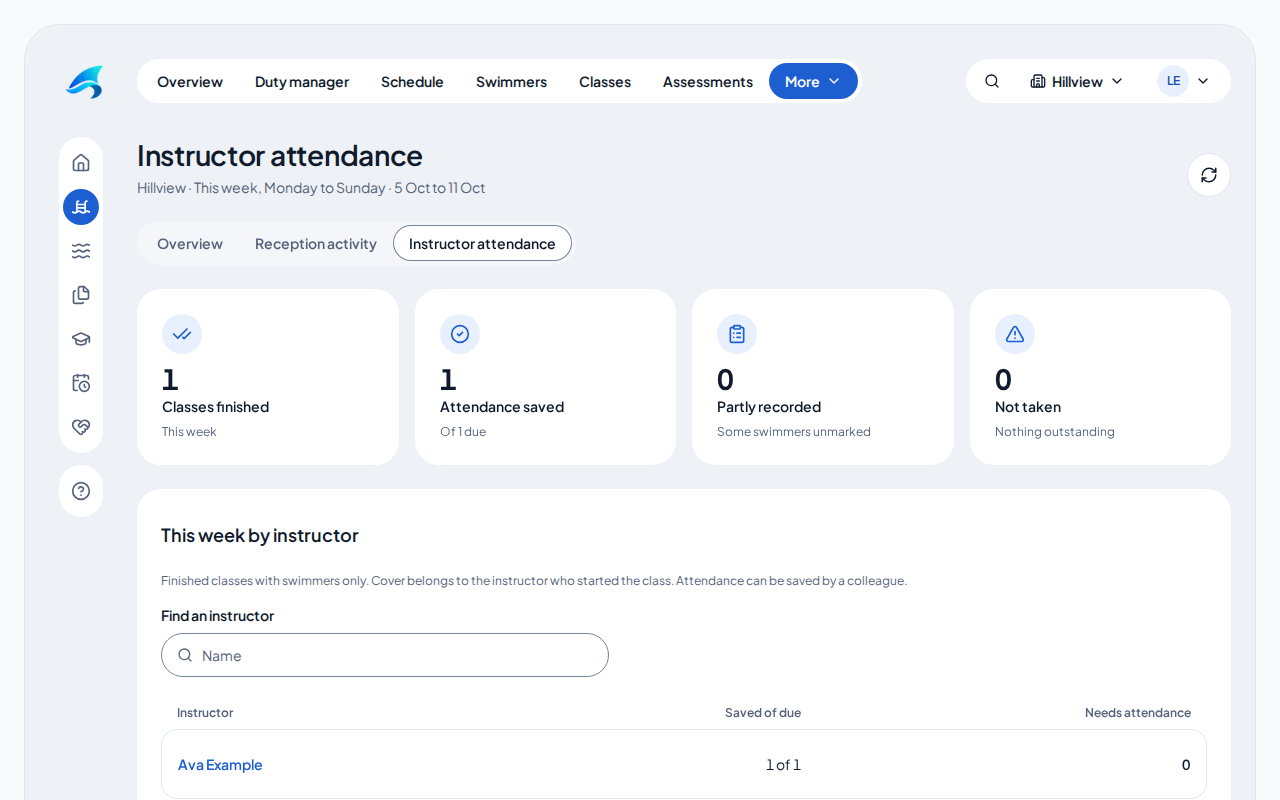
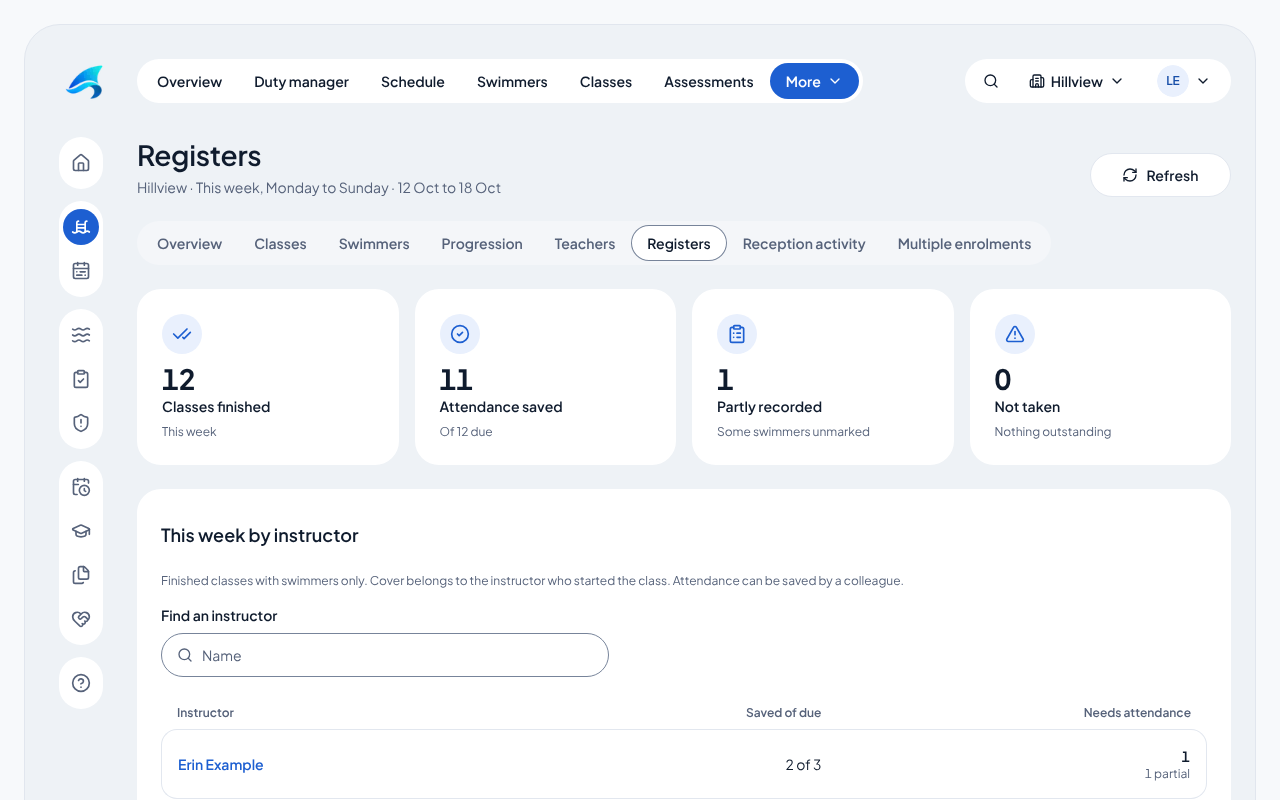
Analytics: help guide, docs, What's new 1.30.0 and layout polish
Claude-Session: https://claude.ai/code/session_01NU6qYLzZMVymJdXZW817Rw

diff --git a/src/lib/help/guides-management.ts b/src/lib/help/guides-management.ts
@@ -37,20 +37,23 @@ export const MANAGEMENT_GUIDES: HelpArticle[] = [
   },
   {
     slug: "analytics", title: "Understand the analytics figures", category: "operations", scopes: ["desk"],
-    summary: "Read weekly enrolment activity by person, instructor attendance, swimmers with multiple enrolments, capacity and cancellations for a site.",
-    keywords: ["reports", "dashboard", "statistics", "numbers", "spaces", "occupancy", "receptionists", "instructors", "missing attendance", "weekly", "multiple enrolments", "more than one class", "export", "csv", "member id"],
-    before: ["Your account needs access to Analytics."],
+    summary: "Read how the swim school is doing: swimmers, places, waiting lists, who left and why, progress through the levels and how each teacher's lessons go, then open a class, swimmer or teacher for the detail.",
+    keywords: ["reports", "dashboard", "statistics", "numbers", "spaces", "occupancy", "fill", "waiting list", "retention", "leavers", "drop-off", "why they left", "progression", "levels", "teachers", "instructors", "performance", "late starts", "registers", "receptionists", "multiple enrolments", "export", "csv", "member id"],
+    before: ["Analytics is for swim school managers: your role needs the top Swim school level."],
     steps: [
-      { title: "Choose the working site", text: "Open Analytics and check the site in the tools bar at the top right. The figures describe that site." },
-      { title: "Compare swimmers and places", text: "Total swimmers counts distinct currently enrolled swimmers. The level breakdown counts enrolled places against class capacity. A swimmer in two classes can occupy two places while counting as one swimmer." },
-      { title: "Read this week’s activity", text: "The enrolment and unenrolment figures cover the current Monday–Sunday week in Ireland, including today so far. Moves, completions and waitlist withdrawals are excluded. Future days show a dash." },
-      { title: "Compare reception activity", text: "Choose Reception activity to see enrolments and unenrolments by the staff member who recorded them. Search by name and open Daily breakdown for their Monday–Sunday totals. Automatic scheduled withdrawals appear separately when applied." },
-      { title: "Check instructor attendance", text: "Choose Instructor attendance. Saved of due compares fully marked attendance with finished classes that have swimmers. Select an instructor, then Needs attendance to find missing or partial registers. Upcoming, cancelled and empty classes are excluded from missed attendance. Saved by shows when a colleague helped." },
-      { title: "Find swimmers with more than one enrolment", text: "Choose Multiple enrolments to list swimmers enrolled more than once, waitlist places included. This site covers the working site; All sites counts places across every site you work at. Search by name or member ID, then choose Export CSV to save the list with each swimmer’s member ID." },
-      { title: "Check cancellations", text: "The cancellation total covers sessions dated in this month. Open Cancelled classes for the outstanding billing queue, which can include older dates. Use Refresh to reload the figures." },
+      { title: "Choose the period and the sites", text: "Open Analytics. Under the page tabs choose 4 weeks, 13 weeks, 6 months or 12 months, and This site or All my sites. Every page keeps your choice, and figures with an arrow compare with the same length of time just before." },
+      { title: "Start with the Overview", text: "The top figures show swimmers now, places filled, the waiting list, who joined and left, how many stayed and attendance. Needs attention lists what is worth acting on this week: swimmers who may leave, full classes with a waiting list, quiet classes, swimmers stuck at a level and lessons nobody started. Open any of them to see who and where." },
+      { title: "Find where the timetable is full", text: "Choose Classes. The grid shades each day and start time by how full it is, with a gold edge where someone is waiting. Each level shows its free places and waiting list. Open a class for its swimmers, their last lessons, its waiting list and every lesson with who taught it." },
+      { title: "See who left and why", text: "Choose Swimmers for joiners and leavers month by month, why they left, how long they stayed, the level they left from, swimmers who may leave and everyone leaving soon. Moving class or site is not leaving, and coming back within two weeks does not count as leaving." },
+      { title: "Check progress through the levels", text: "Choose Progression for how many swimmers pass each level, how many weeks it takes, the skill fewest swimmers have and who has been at one level for more than six months. Assessments shows how many assessed swimmers went on to take a place." },
+      { title: "Look at each teacher", text: "Choose Teachers. A lesson belongs to whoever started it on the pool deck, so cover counts for the person who taught. Sort by lessons, attendance, starting on time, leavers or passes; figures in gold are more than 10 points worse than the school. Open a teacher to compare them with the school, see their classes, late or missed starts and the swimmers who left after their lessons." },
+      { title: "Use the older reports", text: "Registers shows which finished lessons still have swimmers unmarked. Reception activity counts enrolments and unenrolments by the person who recorded them. Multiple enrolments lists swimmers in more than one class and can be exported." },
     ],
-    result: "You can distinguish customer totals, occupied places and recent changes without treating them as the same measure.",
-    troubleshooting: [{ question: "Why doesn’t the cancellation total match the billing queue?", answer: "They answer different questions. Analytics counts sessions in the current month; the queue holds every cancellation still awaiting billing follow-up." }],
+    result: "You can see what is going well and what needs a decision, and drill from the whole swim school down to a class, a swimmer or a teacher.",
+    troubleshooting: [
+      { question: "Why do some leavers say Not recorded?", answer: "Unenrol asks why a swimmer is leaving from 16 October 2026. Swimmers unenrolled before then have no reason." },
+      { question: "Why do a teacher's figures look unusual?", answer: "Small numbers move a lot. A teacher with only a few lessons in the period can look very good or very bad; choose a longer period before acting on it." },
+    ],
     related: ["find-class", "billing-follow-up", "switch-sites"], action: "analytics",
   },
   {

diff --git a/src/lib/help/screenshots.ts b/src/lib/help/screenshots.ts
@@ -109,9 +109,9 @@ export const GUIDE_SCREENSHOTS: Record<string, Placement[]> = {
   "cancel-class-session": [{ image: "cancel-session", step: "Record the reason", caption: "This confirmation cancels one session and records why it cannot run.", alt: "Cancel this session? dialog with the class, date and time, a fictional reason for cancellation, Keep session and Confirm cancellation." }],
   "billing-follow-up": [{ image: "billing", step: "Record the handoff", caption: "After contacting billing, save a handoff note against the affected swimmers.", alt: "Cancelled Otters session awaiting billing, with the reason, the affected fictional swimmers, a billing handoff note and Mark billing notified." }],
   "analytics": [
-    { image: "analytics", step: "Compare swimmers and places", caption: "Current swimmer totals sit alongside this Monday–Sunday week’s recorded activity.", alt: "Analytics page in the frame with fictional swimmer totals, this week’s enrolment activity, places by level and cancellations." },
-    { image: "analytics-reception", step: "Compare reception activity", caption: "Reception activity groups recorded actions by person, with a daily breakdown for each.", alt: "Reception activity report with fictional staff, weekly enrolment and unenrolment totals, and daily breakdown controls." },
-    { image: "analytics-instructors", step: "Check instructor attendance", caption: "Find missing or partial attendance, then inspect the class and the staff who saved marks.", alt: "Instructor attendance report with fictional instructors, saved and missing registers, and dated class details." },
+    { image: "analytics", step: "Start with the Overview", caption: "The Overview shows the swim school at a glance for the period you choose, with what needs attention beside the weekly trend.", alt: "Analytics Overview with fictional figures for swimmers, places filled, waiting list, joiners and leavers, a weekly trend and a Needs attention list." },
+    { image: "analytics-reception", step: "Use the older reports", caption: "Reception activity groups recorded actions by person, with a daily breakdown for each.", alt: "Reception activity report with fictional staff, weekly enrolment and unenrolment totals, and daily breakdown controls." },
+    { image: "analytics-instructors", step: "Use the older reports", caption: "Registers finds missing or partial attendance, then shows the class and the staff who saved marks.", alt: "Registers report with fictional instructors, saved and missing registers, and dated class details." },
   ],
   "manage-curriculum": [
     { image: "programme", step: "Open or add a programme", caption: "A programme contains the ordered levels used at every site.", alt: "Add a programme dialog with a fictional name, a description and an optional image." },

diff --git a/docs/analytics.md b/docs/analytics.md
@@ -1,10 +1,61 @@
 # Analytics
 
-`/analytics` is a read-only shadcn dashboard under Monitoring. It follows the
-site selected in the sidebar, with no separate page selector or URL scope override.
-Administrators inherit this
-screen automatically. Other roles need an explicit `analytics` screen grant.
-Instructor remains a separate workspace. Schedule remains the default desk home.
+`/analytics` is the swim school's reports, for Swim school **Manage** only (the
+`analytics` screen, `courses.manage`). Code: `src/modules/activities/features/analytics`
+(`server/insight-queries.ts` reads, `server/swimmers.ts`, `server/teaching.ts` and
+`server/insights.ts` compute, `components/insights/` draws). Styles are in
+`src/app/(activities)/analytics/analytics.css`.
+
+## Reports (October 2026)
+
+Every report takes `?range=4w|13w|26w|52w` (default 13 weeks, starting on a Monday)
+and `?sites=all` (every site the person works at; default the working site), and
+compares with the same length of time just before.
+
+- **Overview** (`/analytics`): swimmers now, places filled, waiting list, joined,
+  left, stayed, attendance and level passes; a weekly trend with joiners and
+  leavers; Needs attention; why swimmers left; ages.
+- **Classes** (`/analytics/classes`, `/analytics/classes/[id]`): a day × start-hour
+  heat map of places filled, each level, every class; a class shows its swimmers'
+  attendance, last lessons and skills, its waiting list, leavers and every lesson
+  with who started it.
+- **Swimmers** (`/analytics/swimmers`): month-by-month joiners and leavers and
+  drop-off, reasons, tenure, level left from, ages, swimmers who may leave, leaving
+  soon and every leaver.
+- **Progression** (`/analytics/progression`): per level the swimmers, passes, the
+  median weeks to pass, skills done, the hardest skill and swimmers over 26 weeks
+  at one level; assessments and how many went on to take a place within 30 days.
+- **Teachers** (`/analytics/teachers`, `/analytics/teachers/[key]`): per teacher,
+  lessons, cover, missed starts, attendance, on-time starts (within 5 minutes),
+  registers complete, skills ticked, passes and leavers, against the school.
+
+Rules the figures share:
+
+- A **swimmer** is counted once however many places they hold. Places that join up
+  within 14 days, across classes or sites, are one stay, so moving class or site and
+  short breaks are not leaving. A leaver is counted at the site of their last place.
+  Waitlist-only places are never counted as having taken a place.
+- A place ends on `endedOn`, or its booked `scheduledEndOn`.
+- **Leave reasons** come from `Enrolment.leaveReason`, asked by Unenrol from
+  16 October 2026 (`shared/enrolment/leave-reasons.ts`). Earlier leavers show Not
+  recorded; a place ended as finished counts as "finished their class".
+- A **lesson belongs to whoever started it** on the pool deck (`ClassCover`). The
+  planned teacher is the rota Plan's (`ClassPlannedTeacher`), else the class's set
+  instructor; a finished lesson with swimmers that nobody started is a missed start
+  against the planned teacher. Lateness is the start record's time against the
+  lesson time.
+- **May leave**: missed three in a row, or under 60% of the last eight lessons with
+  at least four marked.
+- Teacher figures in gold are more than 10 points worse than the school's.
+
+The sandbox (`npm run sandbox`) seeds a year of invented Hillview history for these
+reports (`scripts/sandbox-swim-history.ts`), including one teacher with weaker
+figures to check the comparisons.
+
+## Older reports
+
+The figures below describe the Registers (`/analytics/instructors`), Reception
+activity and Multiple enrolments reports, and the previous dashboard.
 
 ## Metric definitions
 

diff --git a/CHANGELOG.md b/CHANGELOG.md
@@ -4,6 +4,16 @@ Patch notes for everyone who uses Turnfin at the swim school, the desk and the o
 
 **How versions are numbered:** the middle number goes up when something new arrives (a module, a screen, a new way of working), and the last number when something is fixed or tidied without changing how you work. This list starts on 3 October 2026, when Turnfin moved to its new look; earlier changes are not listed.
 
+## 1.30.0 · 16 October 2026 · Swim school: much fuller analytics
+
+- **Analytics** has new pages for swim school managers: **Overview**, **Classes**, **Swimmers**, **Progression** and **Teachers**. Choose the last 4 weeks, 13 weeks, 6 months or 12 months, and this site or all your sites; figures show how they changed against the time before.
+- **Overview** shows swimmers, places filled, the waiting list, who joined and left, how many stayed, attendance and level passes, with a **Needs attention** list: swimmers who may leave, full classes with a waiting list, quiet classes, swimmers stuck at one level and lessons nobody started.
+- **Classes** shades the timetable by how full each day and time is, and opens each class to show its swimmers, their last lessons, the waiting list and every lesson with who taught it.
+- **Swimmers** shows joiners and leavers month by month, why swimmers left, how long they stayed and who is leaving soon. **Progression** shows how long each level takes and which skill holds swimmers back.
+- **Teachers** shows each teacher's lessons, cover, attendance, starting on time, registers, skills ticked, passes and swimmers who left after their lessons, against the whole swim school. A lesson counts for whoever started it on the pool deck.
+- **Instructor attendance** is now called **Registers**.
+- **Unenrol** now asks why the swimmer is leaving, from a short list. The reason shows on the swimmer's history and in Analytics.
+
 ## 1.29.1 · 16 October 2026 · Purchasing: a cleaner, clearer look
 
 - Every Purchasing page has a new look, in the same style as the new incident report page: soft cards, larger numbers and clearer steps.

diff --git a/src/modules/activities/README.md b/src/modules/activities/README.md
@@ -16,7 +16,7 @@ It covers both menu entries Swim school (the desk, `src/app/(activities)`) and P
 - `schedule` — the week's timetable (`/schedule`).
 - `today` — the swim school's day (`/today`).
 - `together` — swimmers who can be taught together (`/together`).
-- `analytics` — the dashboard and the reception, instructor and multiple-places reports (`/analytics`).
+- `analytics` — the swim school reports (`/analytics`): Overview, Classes (and each class), Swimmers, Progression, Teachers (and each teacher, by who started each lesson), plus the Registers, reception and multiple-places reports. Swim school Manage only.
 - `parents` — parent accounts and access requests (`/students/parents`), the parent API and the parent-admin API.
 - `instructor` — the pool-deck workspace: today's classes, starting a class, assessments and swimmers (`/instructor`).
 - `workspace` — the swim school frame, its menu (`NAV_ITEMS`, for the page bar and the starter page `/swim-school`) and workspace search (`src/app/(activities)/layout.tsx`).
